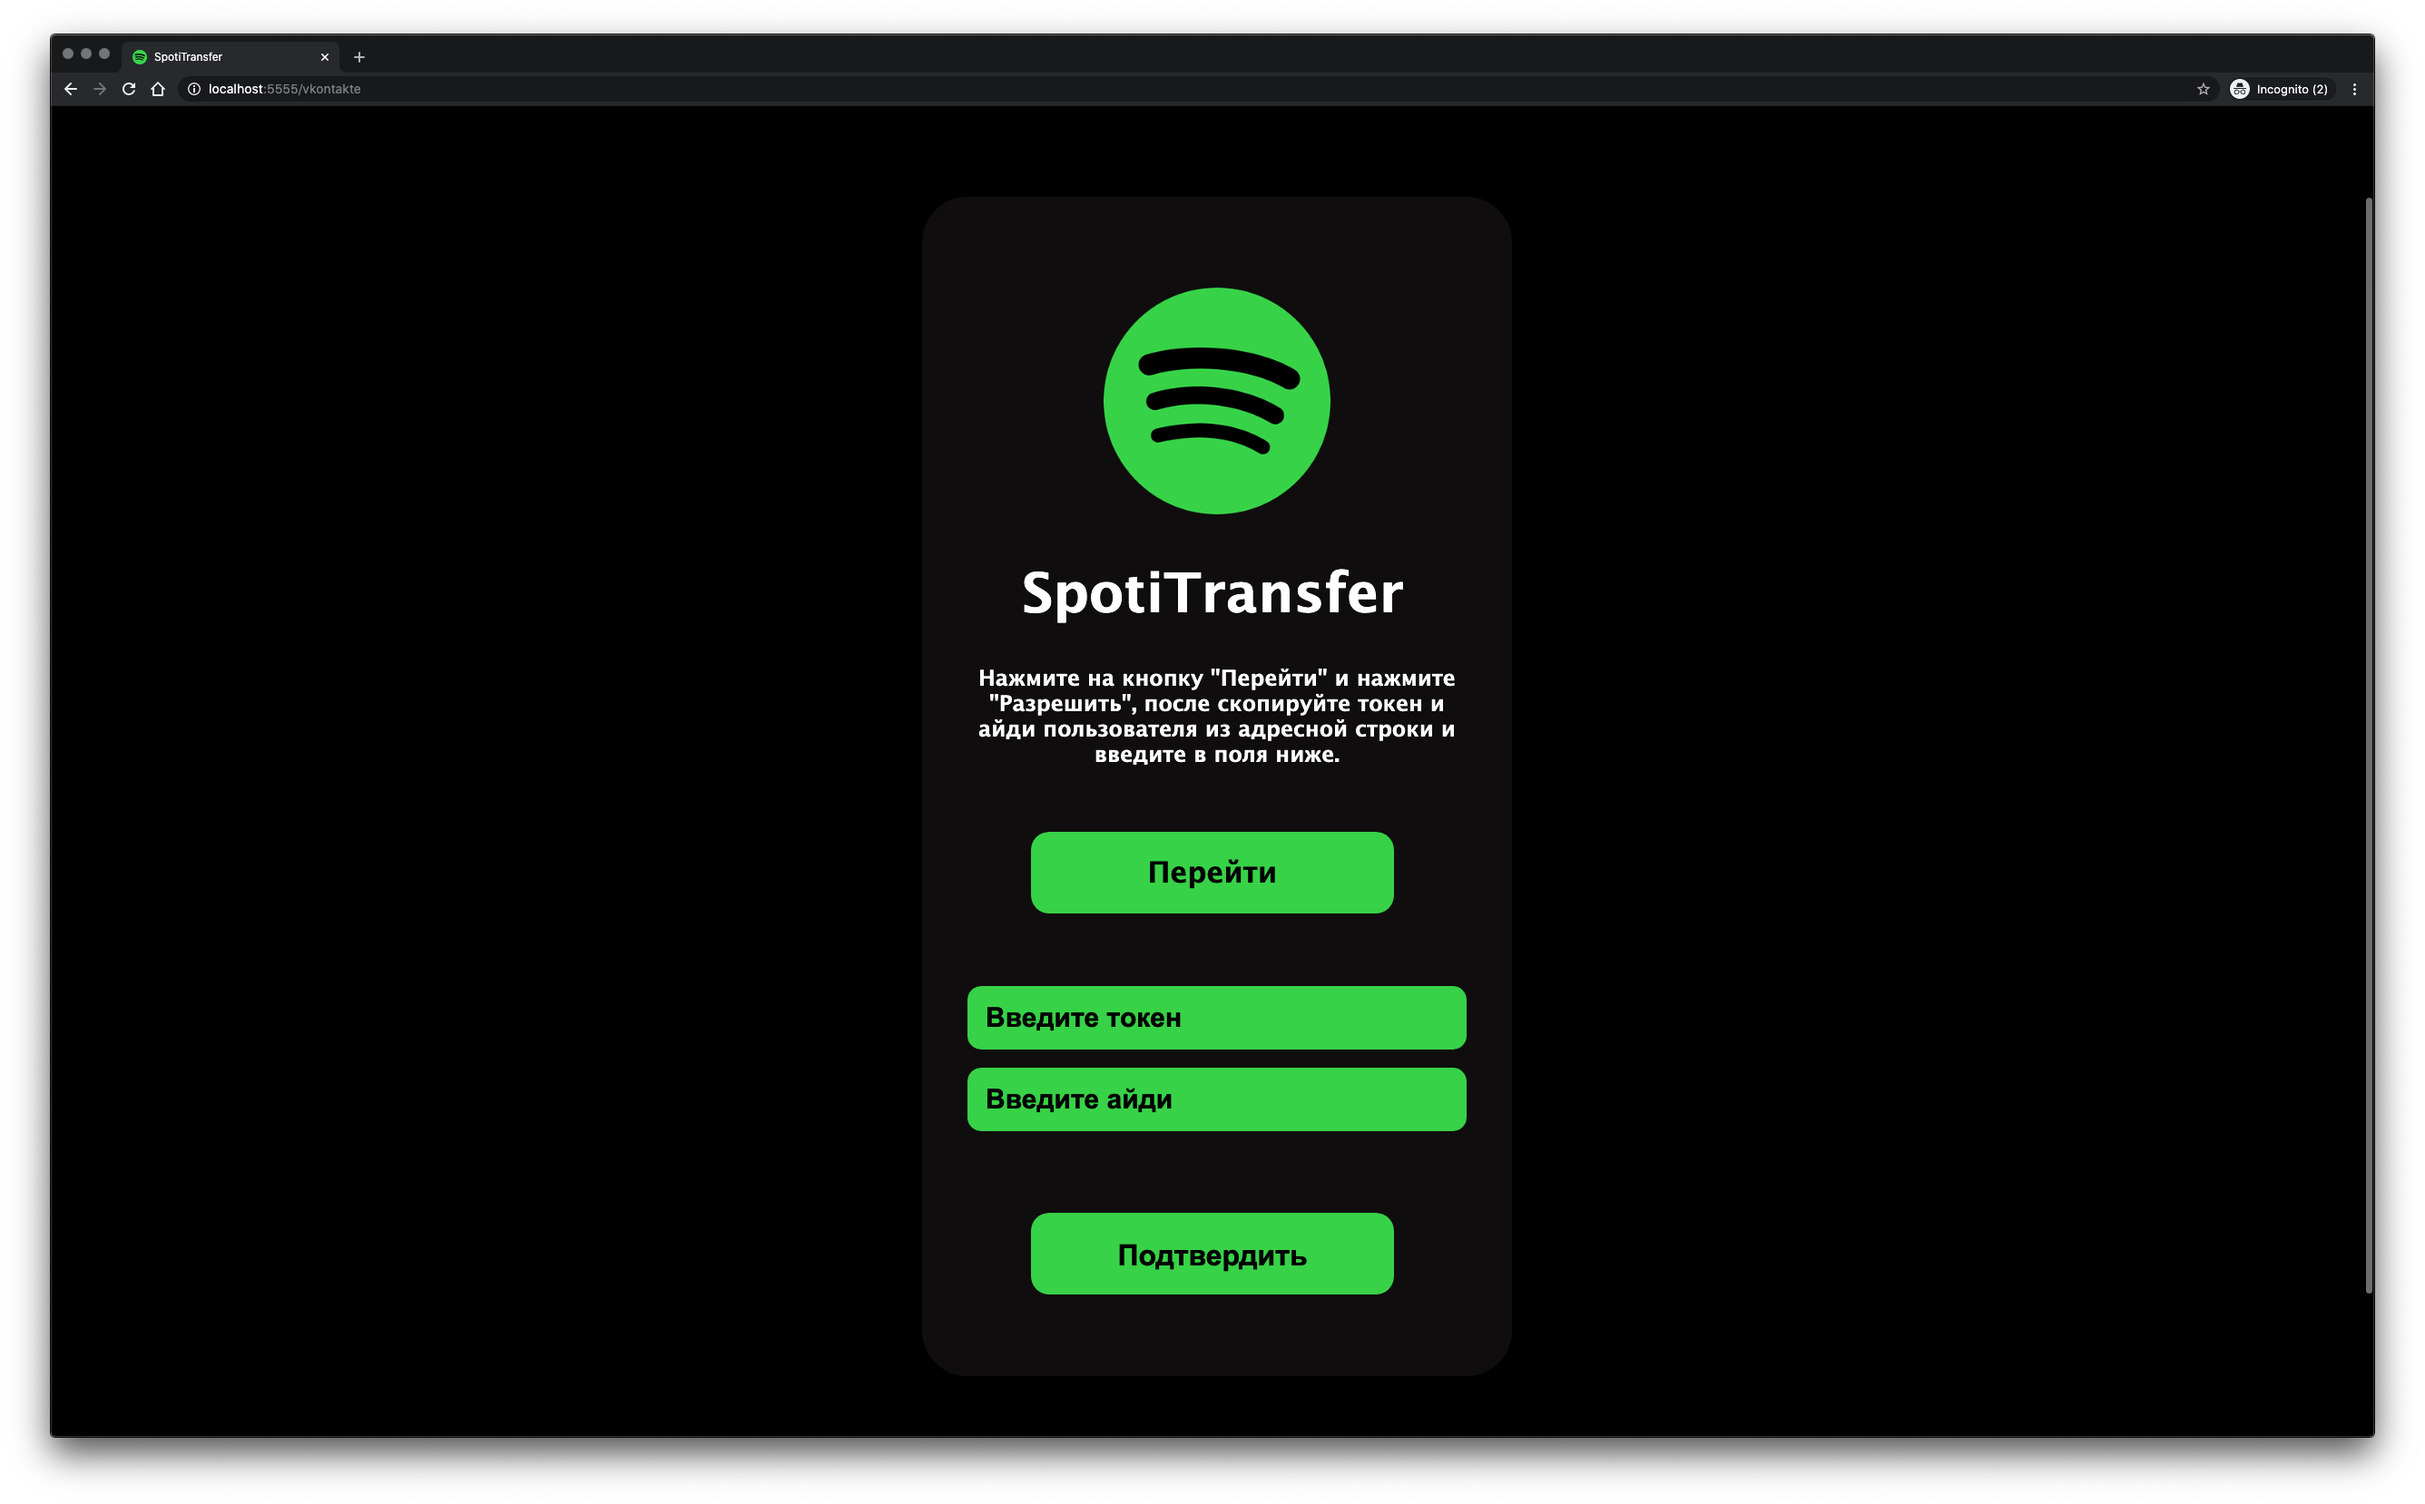
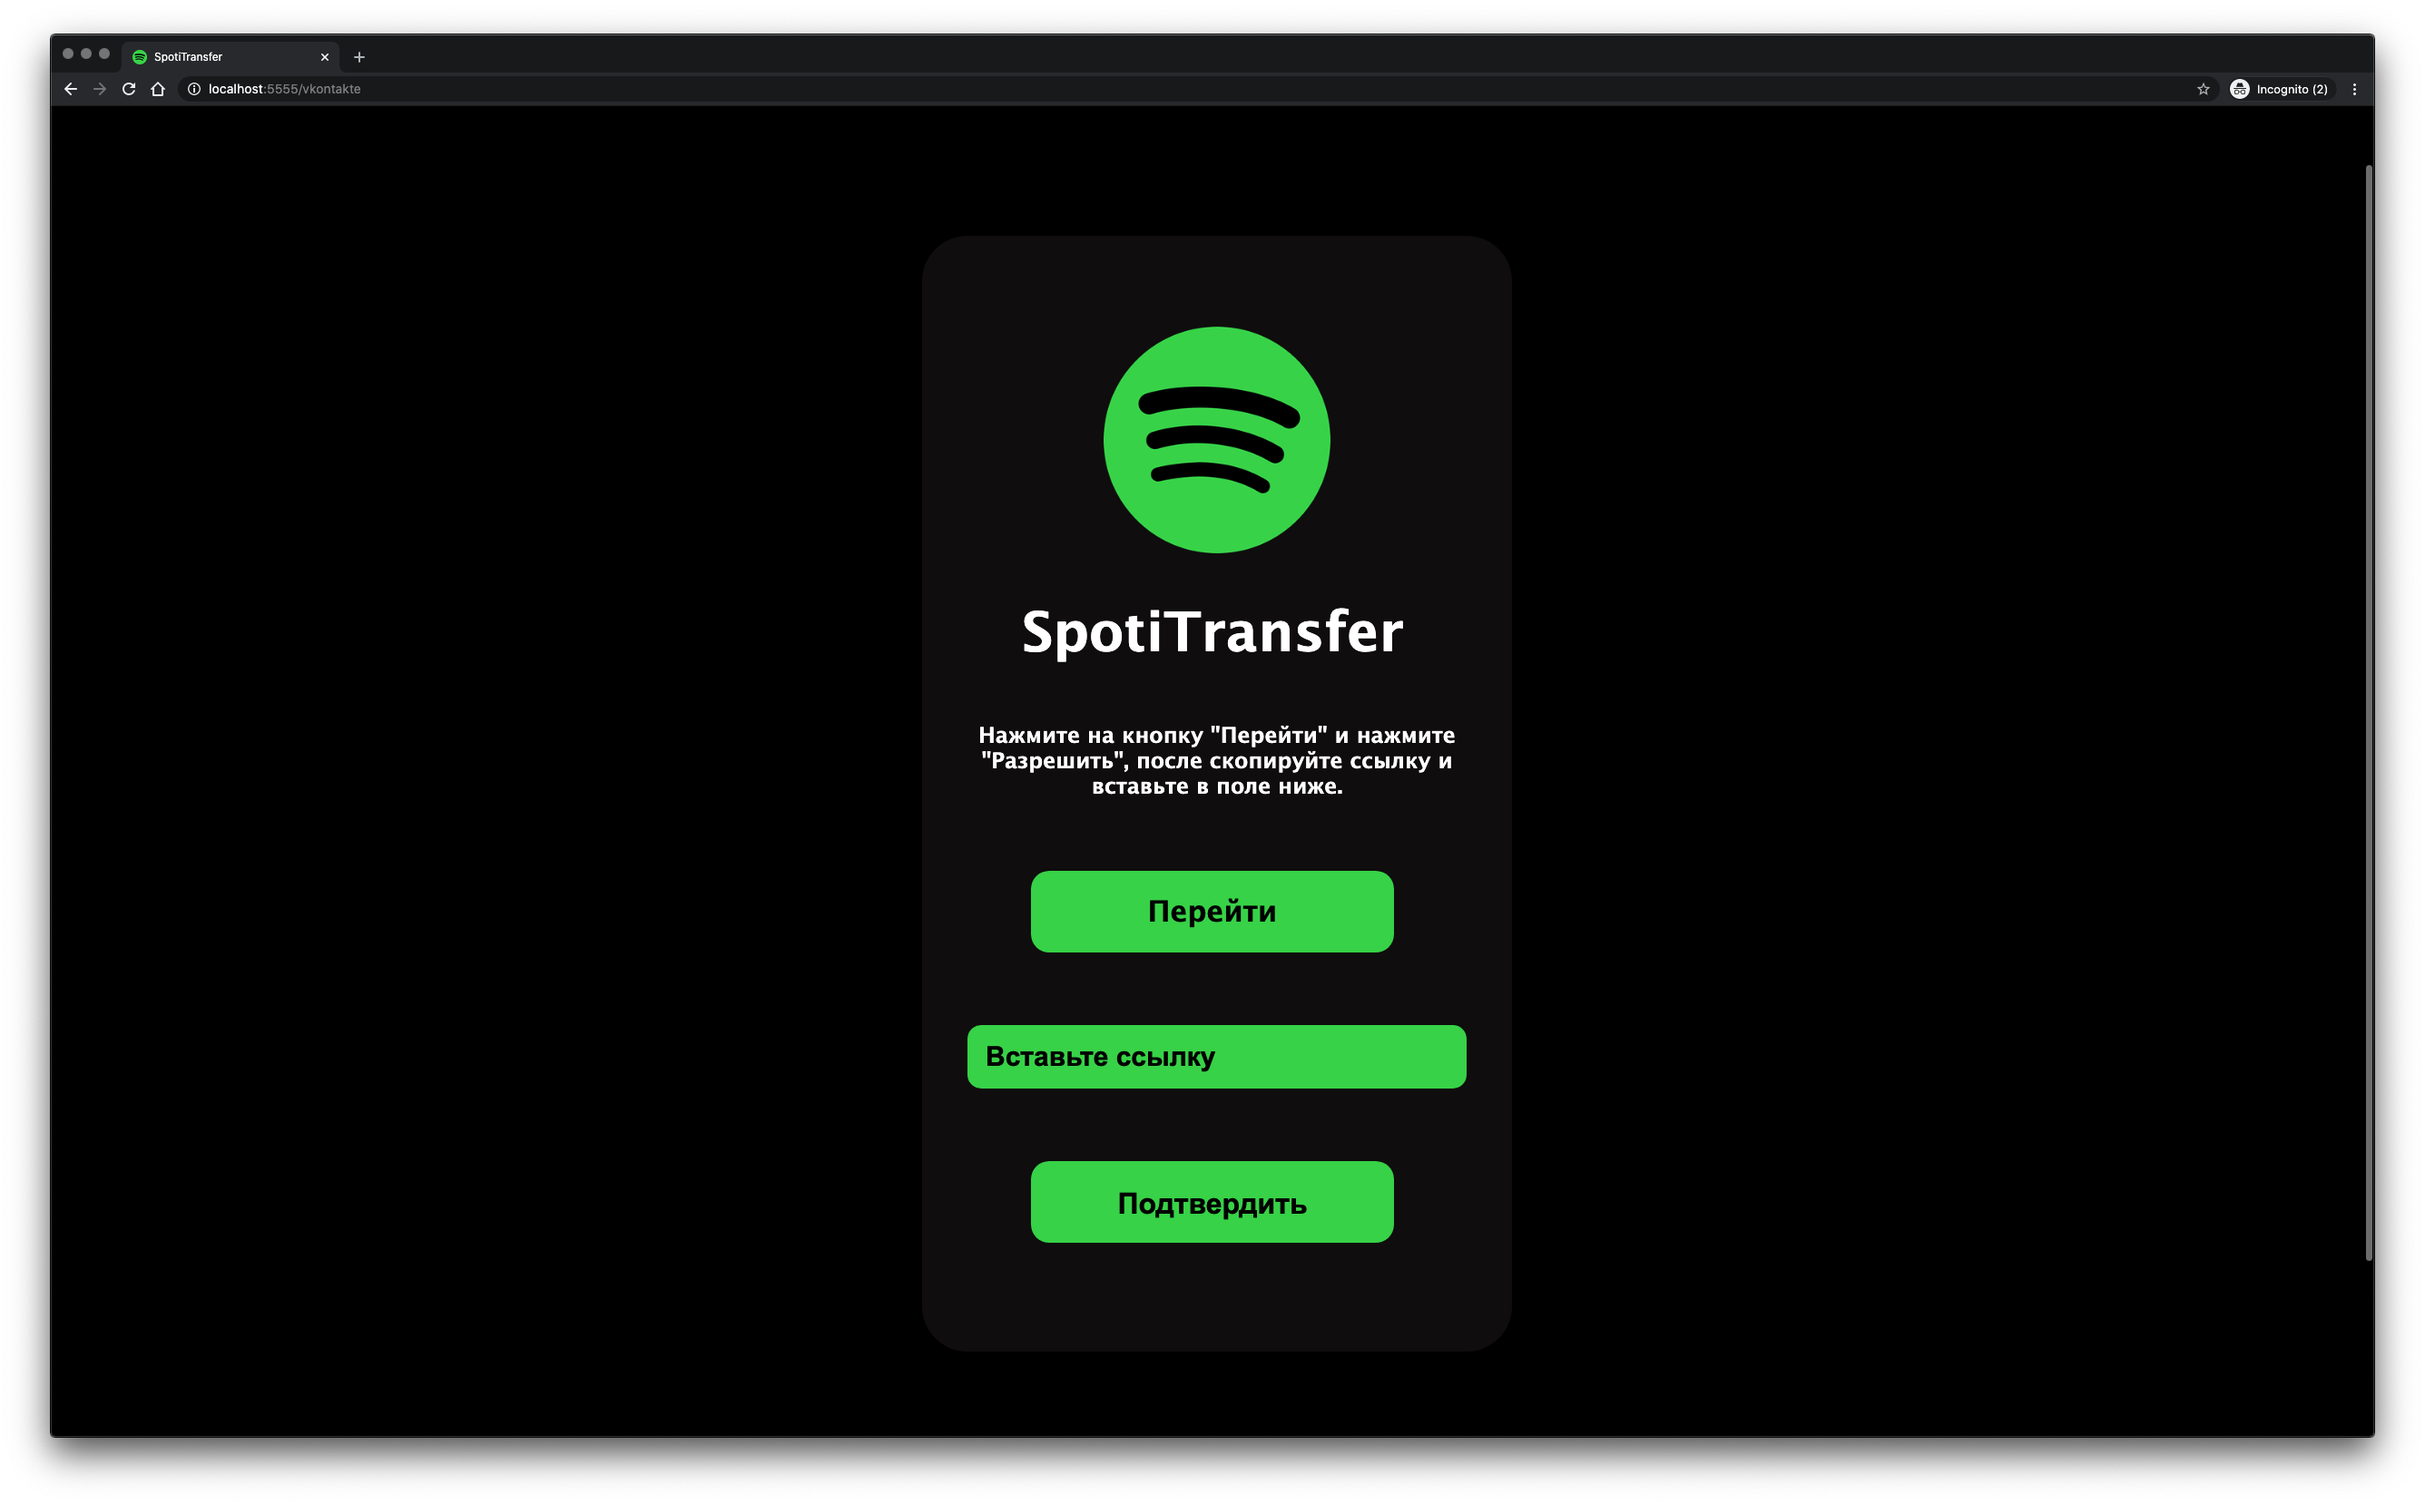
Changed token and uid getting method.

Changed region(s): [[0.3728, 0.1846, 0.6213, 0.8613]]

diff --git a/templates/vkontakte.html b/templates/vkontakte.html
@@ -8,10 +8,9 @@
         <h1 class="header-caption">SpotiTransfer</h1>
     </div>
     <div id="content">
-        <h1 class="content-caption">Нажмите на кнопку <b>"Перейти"</b> и нажмите <b>"Разрешить"</b>, после скопируйте токен и айди пользователя из адресной строки и введите в поля ниже.</h1>
-        <form action="{{ url_for('get_vk_token') }}" method="post">
-            <input type="text" placeholder="Введите токен" name="access_token" id="content-token">
-            <input type="text" placeholder="Введите айди" name="user_id" id="content-uid">
+        <h1 class="content-caption">Нажмите на кнопку <b>"Перейти"</b> и нажмите <b>"Разрешить"</b>, после скопируйте ссылку и вставьте в поле ниже.</h1>
+        <form action="{{ url_for('generate_vk_token') }}" method="post">
+            <input type="text" placeholder="Вставьте ссылку" name="link" id="content-link">
             <button type="submit" class="content-submit">Подтвердить</button>
         </form>
 
@@ -20,5 +19,8 @@
                 Перейти
             </div>
         </a>
+        {% if error %}
+            <h1 class="error">{{ error }}</h1>
+        {% endif %}
     </div>
 </div>

diff --git a/static/vkontakte.css b/static/vkontakte.css
@@ -5,7 +5,7 @@ body {
 
 #spotify {
     width: 650px;
-    height: 1300px;
+    height: 1230px;
     background: #130f0f;
     border-radius: 50px;
     position: absolute;
@@ -40,7 +40,7 @@ body {
 
 #content {
     width: 650px;
-    height: 900px;
+    height: 830px;
     border-radius: 0 0 50px 50px;
     position: absolute;
     top: 400px;
@@ -50,7 +50,7 @@ body {
     color: white;
     width: 550px;
     position: absolute;
-    top: 100px;
+    top: 120px;
     left: 50px;
     text-align: center;
 }
@@ -104,6 +104,15 @@ input::placeholder {
     border: none;
     outline: 0;
     position: absolute;
-    top: 720px;
+    top: 620px;
     left: 120px;
+}
+
+.error {
+    color: white;
+    font-size: 30px;
+    position: absolute;
+    top: 735px;
+    left: 120px;
+    text-align: left;
 }

diff --git a/app.py b/app.py
@@ -18,9 +18,18 @@ def generate_spotify_token():
     return redirect(spotify.generate_url())
 
 
-@app.route('/vkontakte', methods=['GET'])
+@app.route('/vkontakte', methods=['GET', 'POST'])
 def generate_vk_token():
-    return render_template('vkontakte.html', auth=VK_AUTH_URL)
+    error = False
+    if request.method == 'POST':
+        if request.form.get('link'):
+            if vk.set_data(request.form.get('link')):
+                return redirect('/playlist')
+            else:
+                error = 'Ссылка имеет неправильный формат'
+        else:
+            error = 'Вы не ввели ссылку'
+    return render_template('vkontakte.html', auth=VK_AUTH_URL, error=error)
 
 
 @app.route('/spotify/callback', methods=['GET'])
@@ -29,13 +38,6 @@ def get_spotify_token():
         spotify.token = request.args.get('access_token')
         return redirect('/vkontakte')
     return render_template('main.html')
-
-
-@app.route('/vkontakte/callback', methods=['GET', 'POST'])
-def get_vk_token():
-    if request.method == 'POST':
-        vk.access_token, vk.uid, = request.form.get('access_token'), request.form.get('uid')
-    return redirect('/playlist')
 
 
 @app.route('/playlist', methods=['GET'])

diff --git a/modules.py b/modules.py
@@ -28,9 +28,9 @@ class Spotify:
             },
         )
         if response.json().get("error") is not None:
-            print(method)
-            print(url)
-            print(body)
+            # print(method)
+            # print(url)
+            # print(body)
             raise RuntimeError(response.json()["error"]["message"])
         return response
 
@@ -95,6 +95,11 @@ class Vkontakte:
             method, url=url, headers={"Content-Type": "application/json"}
         )
         return response
+
+    def set_data(self, link: str):
+        self.access_token = link.split("access_token=")[1].split("&")[0]
+        self.uid = link.split("user_id=")[1].split("&")[0]
+        return self.access_token, self.uid
 
     def get_tracks(self, offset: int):
         url = f"https://api.vk.com/method/audio.get.json?uid={self.uid}&access_token={self.access_token}&v=5.92&offset={offset}"
